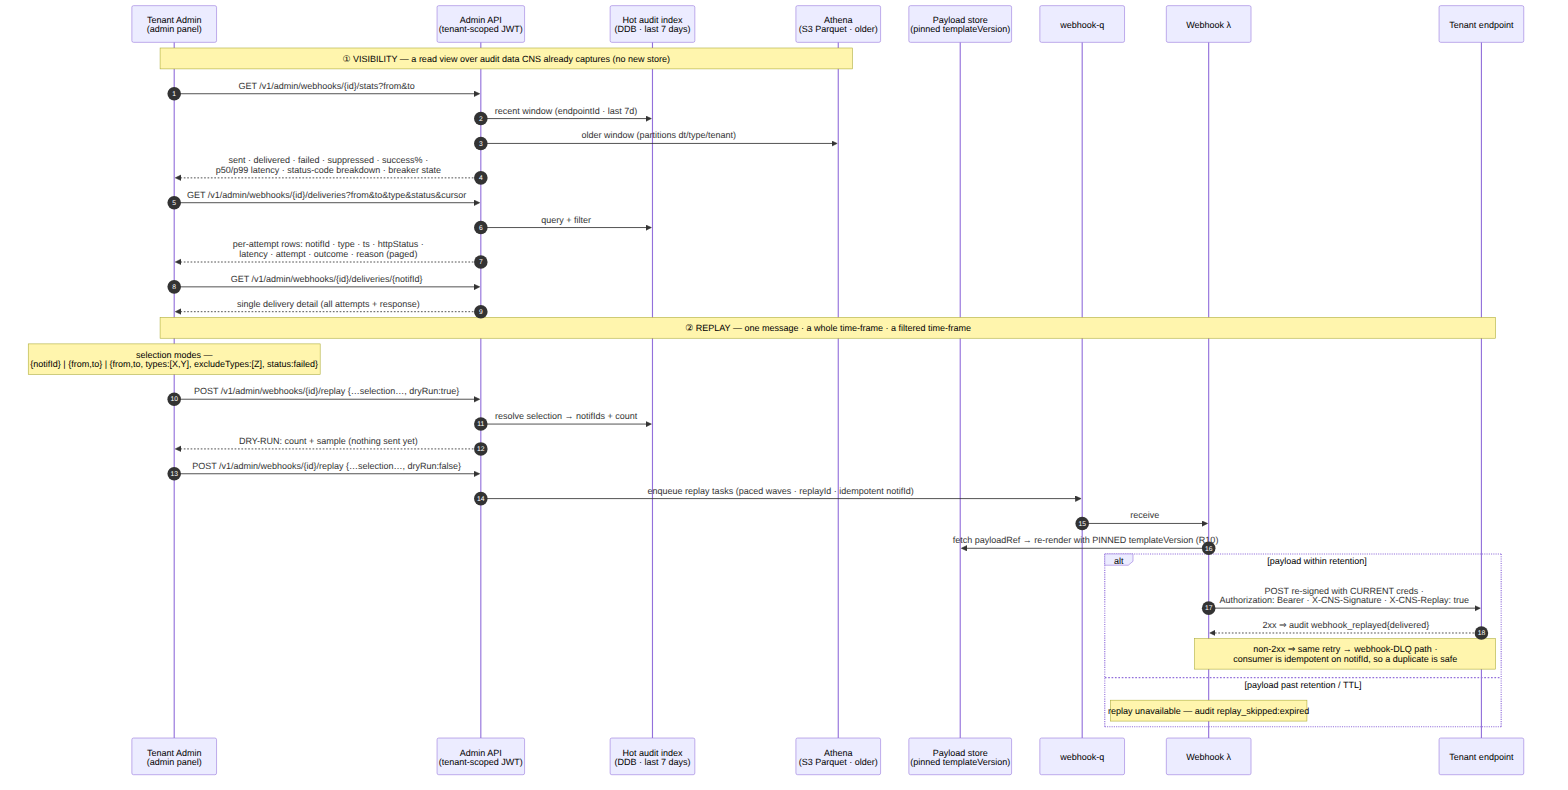
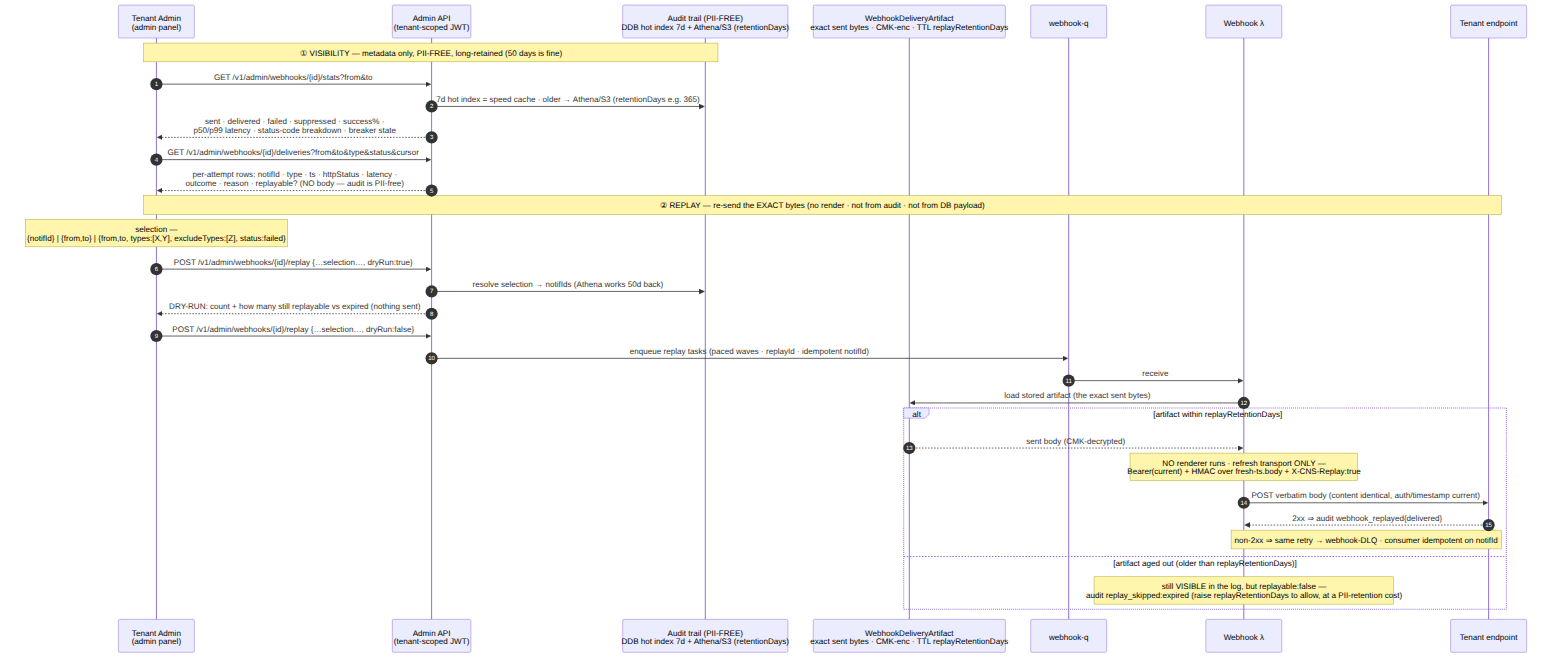
Fix replay: re-send stored artifact verbatim (not re-render, not from PII-free audit)
Corrects two design errors raised in review:
- The S3 audit trail is PII-free by contract (no payload/body), so it cannot be
  the replay source; and re-rendering from the DB payload is a reconstruction,
  not a replay (config/context may have drifted, and it re-reads PII).
- A true replay must re-send the EXACT bytes originally delivered.

Design now:
- New WebhookDeliveryArtifact store — the exact sent bytes, tenant-CMK-encrypted,
  IAM-isolated, honors erasure, auto-purged at replayRetentionDays. Separate from
  the PII-free audit lake; never queried by Athena. Thin webhooks store a PII-free
  stub.
- Replay loads the artifact and re-sends verbatim — the renderer NEVER runs and
  the payload store is never read. Only the transport envelope is refreshed
  (current bearer + HMAC over a fresh timestamp so the consumer's replay-window
  check passes); content is byte-identical. Idempotent on notifId.
- Visibility and replayability decouple: metadata (PII-free) follows retentionDays
  (long — a 50-day-old failure is fully visible); the artifact follows
  replayRetentionDays (shorter, default ~30d). Past that, the row is still visible
  but replayable:false and a replay is audited replay_skipped:expired. Raising the
  window is a governance knob that keeps PII-bearing bodies longer (bigger GDPR
  surface) — surfaced explicitly, not accidental.

Answers the "50 days ago" question directly: see it always, replay it only within
[…]

diff --git a/CNS-Design-Reader.jsx b/CNS-Design-Reader.jsx
@@ -390,22 +390,24 @@ const FLOWS = {
   },
   f12: {
     label: "12 · Webhook admin — visibility + replay",
-    actors: ["Admin", "Admin API", "Audit index", "webhook-q", "Webhook λ", "Endpoint"],
+    actors: ["Admin", "Admin API", "Audit (PII-free)", "Artifact store", "webhook-q", "Webhook λ", "Endpoint"],
     steps: [
-      { note: "① VISIBILITY — a read view over audit data CNS already captures (no new store)" },
+      { note: "① VISIBILITY — metadata only, PII-FREE, long-retained (50 days is fine)" },
       { f: 0, t: 1, label: "GET /webhooks/{id}/stats?from&to" },
-      { f: 1, t: 2, label: "hot index (7d) + Athena (older, partitioned dt/type/tenant)" },
+      { f: 1, t: 2, label: "7d hot index = speed cache · older → Athena/S3 (retentionDays)" },
       { f: 1, t: 0, label: "sent · delivered · failed · success% · p50/p99 · status-code breakdown", dashed: true },
       { f: 0, t: 1, label: "GET /webhooks/{id}/deliveries?from&to&type&status" },
-      { f: 1, t: 0, label: "per-attempt log: notifId · type · httpStatus · latency · outcome · reason", dashed: true },
-      { note: "② REPLAY — {notifId} | {from,to} | {from,to, types:[X,Y], excludeTypes:[Z], status:failed}" },
+      { f: 1, t: 0, label: "per-attempt rows: notifId · type · status · latency · outcome · replayable? (NO body)", dashed: true },
+      { note: "② REPLAY — re-send the EXACT bytes: no render · not from audit · not from DB payload" },
+      { note: "selection: {notifId} | {from,to} | {from,to, types:[X,Y], excludeTypes:[Z], status:failed}" },
       { f: 0, t: 1, label: "POST /replay {…selection…, dryRun:true}" },
-      { f: 1, t: 0, label: "DRY-RUN: count + sample (nothing sent yet)", dashed: true },
+      { f: 1, t: 0, label: "DRY-RUN: count + how many still replayable vs expired (nothing sent)", dashed: true },
       { f: 0, t: 1, label: "POST /replay {…selection…, dryRun:false} — confirm" },
-      { f: 1, t: 3, label: "enqueue replay tasks — paced · replayId · idempotent notifId" },
-      { f: 3, t: 4, label: "receive" },
-      { f: 4, t: 5, label: "re-render (PINNED templateVersion) + re-sign (current creds) + POST X-CNS-Replay", tone: "accent" },
-      { note: "idempotent on notifId ⇒ safe to double-replay · payload past retention ⇒ audited replay_skipped:expired" },
+      { f: 1, t: 4, label: "enqueue replay tasks — paced · replayId · idempotent notifId" },
+      { f: 4, t: 5, label: "receive" },
+      { f: 5, t: 3, label: "load stored artifact (exact sent bytes, CMK-decrypted)" },
+      { f: 5, t: 6, label: "re-send VERBATIM — refresh transport only (current bearer + fresh-ts HMAC + X-CNS-Replay)", tone: "accent" },
+      { note: "artifact aged out (> replayRetentionDays) ⇒ still VISIBLE but replayable:false, audit replay_skipped:expired" },
     ],
   },
 };
@@ -441,6 +443,7 @@ const entities = [
   ["WebhookEndpoint (new)", "tenant#endpointId · url · secretRef (HMAC) + bearerTokenRef — two independently rotatable creds, each current+previous overlap (rotationOverlapHours, *RotatedAt) · subscribedTypes[] · status(pending|active|disabled) · breakerState · mTLS — §3.6.1"],
   ["DeviceToken (new)", "tenant#user · device#id · platform(ios|android|web) · token · appVersion · locale · active — pruned on provider 'unregistered' — §3.6.2"],
   ["SmsConsent (new)", "tenant#user (or phone#hash) · status(opted_in|opted_out) · source · updatedAt — STOP/HELP driven suppression — §3.6.3"],
+  ["WebhookDeliveryArtifact (new)", "tenant#endpointId · artifact#notifId · the EXACT sent bytes, tenant-CMK-encrypted · templateVersion · thin · expiresAt=replayRetentionDays — verbatim replay source, NOT the PII-free audit trail — §3.6.5"],
   ["Recipient kinds", "user · role · externalEmail · slackChannel + externalPhone (SMS to a non-user number)"],
   ["Connection (v1.3)", "DELETED — AppSync owns connection state; there is nothing for CNS to store"],
 ];
@@ -796,29 +799,42 @@ export default function App() {
         </Section>
 
         <Section id="webhookops" title="Webhook visibility & replay" kicker="tenant admin panel — what was sent/failed + re-send by message / time-frame / filter">
-          <div className="text-sm">
-            The tenant answers two operational questions itself: <b>“what did CNS send me, and what failed?”</b> and <b>“re-send the ones I missed.”</b>
-            Both are served from data CNS <b>already captures</b> (per-attempt audit events + the outbox) — a scoped read + a re-enqueue, <b>not</b> new storage.
-          </div>
+          <Callout title="Two data planes — do not conflate them (the correction)">
+            <b>Visibility</b> reads the <b>PII-free audit trail</b> (metadata only — no body). <b>Replay</b> re-sends the <b>exact bytes originally delivered</b>,
+            read from a separate <span style={mono}>WebhookDeliveryArtifact</span> store — <b>NOT</b> the audit trail (it has no payload by design), and <b>NOT</b> by
+            re-rendering from the DB payload (that's a <i>reconstruction</i>, not a replay, and would re-read PII). <b>The renderer never runs during replay.</b>
+          </Callout>
           <div className="grid gap-2 sm:grid-cols-2">
             <div className="rounded-lg p-3" style={{ background: C.wash }}>
-              <div className="text-xs font-bold uppercase" style={{ color: C.navy }}>Visibility — the calculations</div>
-              <div className="mt-1 text-sm">Per-endpoint over any <span style={mono}>from</span>/<span style={mono}>to</span>: <b>sent · delivered · failed · suppressed</b>,
-                <b> success rate</b>, <b>p50/p99 latency</b>, HTTP <b>status-code breakdown</b>, volume by type, breaker state. Plus a filterable
-                <b> delivery log</b> (one row per attempt: notifId · type · status · latency · outcome · reason). Last 7 days from the hot index; older from Athena.</div>
+              <div className="text-xs font-bold uppercase" style={{ color: C.navy }}>Visibility — metadata, PII-free, long-retained</div>
+              <div className="mt-1 text-sm">Per-endpoint over any window: <b>sent · delivered · failed · suppressed</b>, <b>success rate</b>, <b>p50/p99 latency</b>,
+                HTTP <b>status-code breakdown</b>, volume by type, breaker state; plus a filterable <b>delivery log</b> (notifId · type · status · latency · outcome · reason · <b>replayable?</b>).
+                The 7-day hot index is only a <b>speed cache</b> — older windows come from Athena/S3 at the type's <span style={mono}>retentionDays</span> (e.g. 365 d), so
+                <b> "what failed 50 days ago" is fully visible</b> (everything except the body).</div>
             </div>
             <div className="rounded-lg p-3" style={{ background: C.accentSoft, borderLeft: `4px solid ${C.accent}` }}>
-              <div className="text-xs font-bold uppercase" style={{ color: "#8A3A12" }}>Replay — three selection modes</div>
+              <div className="text-xs font-bold uppercase" style={{ color: "#8A3A12" }}>Replay — verbatim, three selection modes</div>
               <div className="mt-1 text-sm"><b>①</b> a single message <span style={mono}>{"{notifId}"}</span> · <b>②</b> a whole time-frame
                 <span style={mono}> {"{from,to}"}</span> · <b>③</b> a filtered time-frame <span style={mono}>{"{from,to, types:[X,Y], excludeTypes:[Z], status:failed}"}</span>
-                — e.g. only types X, Y (not Z) that failed.</div>
+                — e.g. only types X, Y (not Z) that failed. The <span style={mono}>Webhook λ</span> <b>loads the stored artifact and re-sends the bytes verbatim</b>;
+                only the transport envelope is refreshed (current bearer + HMAC over a fresh timestamp, so the consumer's replay-window check passes). Idempotent on <span style={mono}>notifId</span>.</div>
+            </div>
+          </div>
+          <div className="rounded-lg p-3" style={{ border: `1px solid ${C.line}` }}>
+            <div className="text-xs font-bold uppercase" style={{ color: C.navy }}>PII &amp; retention — the artifact store, and the “50 days ago” answer</div>
+            <div className="mt-1 text-sm">
+              The artifact <i>is</i> the notification content, so it can hold PII → the <span style={mono}>WebhookDeliveryArtifact</span> store is <b>tenant-CMK-encrypted</b>,
+              IAM-isolated, honors erasure, and auto-purges at <span style={mono}>replayRetentionDays</span> (its own knob, default ~30 d) — <b>never in the PII-free audit lake</b>.
+              <b> Visibility and replayability decouple:</b> metadata follows <span style={mono}>retentionDays</span> (long), the artifact follows <span style={mono}>replayRetentionDays</span> (shorter).
+              A 50-day-old delivery is still <b>visible</b>; it is <b>replayable only if <span style={mono}>replayRetentionDays ≥ 50</span></b> — otherwise the row shows <span style={mono}>replayable:false</span> and a
+              replay is audited <span style={mono}>replay_skipped:expired</span>. Raising the window buys convenience at the cost of <b>keeping PII-bearing bodies longer</b> (bigger GDPR surface) — a
+              governance knob, not an accident. <b>Thin webhooks</b> carry no PII in the body and sidestep the tradeoff.
             </div>
           </div>
           <div className="text-sm">
-            <b>Kept simple by reuse:</b> <b>dry-run first</b> (returns count + sample, sends nothing) → confirm → replay tasks enqueue onto
-            <span style={mono}> webhook-q</span> in <b>paced waves</b> → the <span style={mono}>Webhook λ</span> <b>re-renders from the pinned templateVersion</b> and
-            <b> re-signs with current credentials</b>, through the same SSRF/retry/breaker/DLQ path. <b>Idempotent on <span style={mono}>notifId</span></b>, so double-replay is safe;
-            a payload past retention is un-replayable and audited <span style={mono}>replay_skipped:expired</span>. Every replay is audited (<span style={mono}>who · what · count</span>).
+            <b>Kept simple by reuse:</b> <b>dry-run first</b> (count + how many are still replayable vs expired, sends nothing) → confirm → replay tasks enqueue onto
+            <span style={mono}> webhook-q</span> in <b>paced waves</b> → load artifact → re-send verbatim through the same SSRF/retry/breaker/DLQ path.
+            Every replay is audited (<span style={mono}>replay_requested · webhook_replayed · replay_skipped:expired</span>).
           </div>
           <Code>{`GET  /v1/admin/webhooks/{id}/stats?from&to                  // rollups / calculations
 GET  /v1/admin/webhooks/{id}/deliveries?from&to&type&status // delivery log (filterable)
@@ -944,6 +960,7 @@ CRUD /v1/admin/tenants/{id}/sms-budget              // per-tenant SMS spend/rate
               ["InboxItem body", "Rendered text may contain PII; tenant CMK encrypted", "Same expiresAt; also on resolve"],
               ["Enrichment cache", "Masked placeholder form only — zero raw PII", "Per-type cache TTL"],
               ["Audit trail (S3)", "Recipients as HMAC token; no payload; no body text", "S3 lifecycle = retentionDays; Object Lock optional"],
+              ["WebhookDeliveryArtifact", "Exact sent bytes (may contain PII for fat webhooks); tenant CMK encrypted; thin webhooks are PII-free", "expiresAt = replayRetentionDays (separate, shorter knob) — then un-replayable"],
               ["Queues · logs · traces", "NEVER — CloudWatch data-protection policy enforces this", "N/A"],
               ["LLM prompt/response", "Allow-listed masked fields; output never stored; Bedrock no-retention", "Immediate — hash + token counts in audit only"],
             ]} />

diff --git a/Summary.html b/Summary.html
@@ -415,22 +415,24 @@ const FLOWS = {
   },
   f12: {
     label: "12 · Webhook admin — visibility + replay",
-    actors: ["Admin", "Admin API", "Audit index", "webhook-q", "Webhook λ", "Endpoint"],
+    actors: ["Admin", "Admin API", "Audit (PII-free)", "Artifact store", "webhook-q", "Webhook λ", "Endpoint"],
     steps: [
-      { note: "① VISIBILITY — a read view over audit data CNS already captures (no new store)" },
+      { note: "① VISIBILITY — metadata only, PII-FREE, long-retained (50 days is fine)" },
       { f: 0, t: 1, label: "GET /webhooks/{id}/stats?from&to" },
-      { f: 1, t: 2, label: "hot index (7d) + Athena (older, partitioned dt/type/tenant)" },
+      { f: 1, t: 2, label: "7d hot index = speed cache · older → Athena/S3 (retentionDays)" },
       { f: 1, t: 0, label: "sent · delivered · failed · success% · p50/p99 · status-code breakdown", dashed: true },
       { f: 0, t: 1, label: "GET /webhooks/{id}/deliveries?from&to&type&status" },
-      { f: 1, t: 0, label: "per-attempt log: notifId · type · httpStatus · latency · outcome · reason", dashed: true },
-      { note: "② REPLAY — {notifId} | {from,to} | {from,to, types:[X,Y], excludeTypes:[Z], status:failed}" },
+      { f: 1, t: 0, label: "per-attempt rows: notifId · type · status · latency · outcome · replayable? (NO body)", dashed: true },
+      { note: "② REPLAY — re-send the EXACT bytes: no render · not from audit · not from DB payload" },
+      { note: "selection: {notifId} | {from,to} | {from,to, types:[X,Y], excludeTypes:[Z], status:failed}" },
       { f: 0, t: 1, label: "POST /replay {…selection…, dryRun:true}" },
-      { f: 1, t: 0, label: "DRY-RUN: count + sample (nothing sent yet)", dashed: true },
+      { f: 1, t: 0, label: "DRY-RUN: count + how many still replayable vs expired (nothing sent)", dashed: true },
       { f: 0, t: 1, label: "POST /replay {…selection…, dryRun:false} — confirm" },
-      { f: 1, t: 3, label: "enqueue replay tasks — paced · replayId · idempotent notifId" },
-      { f: 3, t: 4, label: "receive" },
-      { f: 4, t: 5, label: "re-render (PINNED templateVersion) + re-sign (current creds) + POST X-CNS-Replay", tone: "accent" },
-      { note: "idempotent on notifId ⇒ safe to double-replay · payload past retention ⇒ audited replay_skipped:expired" },
+      { f: 1, t: 4, label: "enqueue replay tasks — paced · replayId · idempotent notifId" },
+      { f: 4, t: 5, label: "receive" },
+      { f: 5, t: 3, label: "load stored artifact (exact sent bytes, CMK-decrypted)" },
+      { f: 5, t: 6, label: "re-send VERBATIM — refresh transport only (current bearer + fresh-ts HMAC + X-CNS-Replay)", tone: "accent" },
+      { note: "artifact aged out (> replayRetentionDays) ⇒ still VISIBLE but replayable:false, audit replay_skipped:expired" },
     ],
   },
 };
@@ -466,6 +468,7 @@ const entities = [
   ["WebhookEndpoint (new)", "tenant#endpointId · url · secretRef (HMAC) + bearerTokenRef — two independently rotatable creds, each current+previous overlap (rotationOverlapHours, *RotatedAt) · subscribedTypes[] · status(pending|active|disabled) · breakerState · mTLS — §3.6.1"],
   ["DeviceToken (new)", "tenant#user · device#id · platform(ios|android|web) · token · appVersion · locale · active — pruned on provider 'unregistered' — §3.6.2"],
   ["SmsConsent (new)", "tenant#user (or phone#hash) · status(opted_in|opted_out) · source · updatedAt — STOP/HELP driven suppression — §3.6.3"],
+  ["WebhookDeliveryArtifact (new)", "tenant#endpointId · artifact#notifId · the EXACT sent bytes, tenant-CMK-encrypted · templateVersion · thin · expiresAt=replayRetentionDays — verbatim replay source, NOT the PII-free audit trail — §3.6.5"],
   ["Recipient kinds", "user · role · externalEmail · slackChannel + externalPhone (SMS to a non-user number)"],
   ["Connection (v1.3)", "DELETED — AppSync owns connection state; there is nothing for CNS to store"],
 ];
@@ -821,29 +824,42 @@ function App() {
         </Section>
 
         <Section id="webhookops" title="Webhook visibility & replay" kicker="tenant admin panel — what was sent/failed + re-send by message / time-frame / filter">
-          <div className="text-sm">
-            The tenant answers two operational questions itself: <b>“what did CNS send me, and what failed?”</b> and <b>“re-send the ones I missed.”</b>
-            Both are served from data CNS <b>already captures</b> (per-attempt audit events + the outbox) — a scoped read + a re-enqueue, <b>not</b> new storage.
-          </div>
+          <Callout title="Two data planes — do not conflate them (the correction)">
+            <b>Visibility</b> reads the <b>PII-free audit trail</b> (metadata only — no body). <b>Replay</b> re-sends the <b>exact bytes originally delivered</b>,
+            read from a separate <span style={mono}>WebhookDeliveryArtifact</span> store — <b>NOT</b> the audit trail (it has no payload by design), and <b>NOT</b> by
+            re-rendering from the DB payload (that's a <i>reconstruction</i>, not a replay, and would re-read PII). <b>The renderer never runs during replay.</b>
+          </Callout>
           <div className="grid gap-2 sm:grid-cols-2">
             <div className="rounded-lg p-3" style={{ background: C.wash }}>
-              <div className="text-xs font-bold uppercase" style={{ color: C.navy }}>Visibility — the calculations</div>
-              <div className="mt-1 text-sm">Per-endpoint over any <span style={mono}>from</span>/<span style={mono}>to</span>: <b>sent · delivered · failed · suppressed</b>,
-                <b> success rate</b>, <b>p50/p99 latency</b>, HTTP <b>status-code breakdown</b>, volume by type, breaker state. Plus a filterable
-                <b> delivery log</b> (one row per attempt: notifId · type · status · latency · outcome · reason). Last 7 days from the hot index; older from Athena.</div>
+              <div className="text-xs font-bold uppercase" style={{ color: C.navy }}>Visibility — metadata, PII-free, long-retained</div>
+              <div className="mt-1 text-sm">Per-endpoint over any window: <b>sent · delivered · failed · suppressed</b>, <b>success rate</b>, <b>p50/p99 latency</b>,
+                HTTP <b>status-code breakdown</b>, volume by type, breaker state; plus a filterable <b>delivery log</b> (notifId · type · status · latency · outcome · reason · <b>replayable?</b>).
+                The 7-day hot index is only a <b>speed cache</b> — older windows come from Athena/S3 at the type's <span style={mono}>retentionDays</span> (e.g. 365 d), so
+                <b> "what failed 50 days ago" is fully visible</b> (everything except the body).</div>
             </div>
             <div className="rounded-lg p-3" style={{ background: C.accentSoft, borderLeft: `4px solid ${C.accent}` }}>
-              <div className="text-xs font-bold uppercase" style={{ color: "#8A3A12" }}>Replay — three selection modes</div>
+              <div className="text-xs font-bold uppercase" style={{ color: "#8A3A12" }}>Replay — verbatim, three selection modes</div>
               <div className="mt-1 text-sm"><b>①</b> a single message <span style={mono}>{"{notifId}"}</span> · <b>②</b> a whole time-frame
                 <span style={mono}> {"{from,to}"}</span> · <b>③</b> a filtered time-frame <span style={mono}>{"{from,to, types:[X,Y], excludeTypes:[Z], status:failed}"}</span>
-                — e.g. only types X, Y (not Z) that failed.</div>
+                — e.g. only types X, Y (not Z) that failed. The <span style={mono}>Webhook λ</span> <b>loads the stored artifact and re-sends the bytes verbatim</b>;
+                only the transport envelope is refreshed (current bearer + HMAC over a fresh timestamp, so the consumer's replay-window check passes). Idempotent on <span style={mono}>notifId</span>.</div>
+            </div>
+          </div>
+          <div className="rounded-lg p-3" style={{ border: `1px solid ${C.line}` }}>
+            <div className="text-xs font-bold uppercase" style={{ color: C.navy }}>PII &amp; retention — the artifact store, and the “50 days ago” answer</div>
+            <div className="mt-1 text-sm">
+              The artifact <i>is</i> the notification content, so it can hold PII → the <span style={mono}>WebhookDeliveryArtifact</span> store is <b>tenant-CMK-encrypted</b>,
+              IAM-isolated, honors erasure, and auto-purges at <span style={mono}>replayRetentionDays</span> (its own knob, default ~30 d) — <b>never in the PII-free audit lake</b>.
+              <b> Visibility and replayability decouple:</b> metadata follows <span style={mono}>retentionDays</span> (long), the artifact follows <span style={mono}>replayRetentionDays</span> (shorter).
+              A 50-day-old delivery is still <b>visible</b>; it is <b>replayable only if <span style={mono}>replayRetentionDays ≥ 50</span></b> — otherwise the row shows <span style={mono}>replayable:false</span> and a
+              replay is audited <span style={mono}>replay_skipped:expired</span>. Raising the window buys convenience at the cost of <b>keeping PII-bearing bodies longer</b> (bigger GDPR surface) — a
+              governance knob, not an accident. <b>Thin webhooks</b> carry no PII in the body and sidestep the tradeoff.
             </div>
           </div>
           <div className="text-sm">
-            <b>Kept simple by reuse:</b> <b>dry-run first</b> (returns count + sample, sends nothing) → confirm → replay tasks enqueue onto
-            <span style={mono}> webhook-q</span> in <b>paced waves</b> → the <span style={mono}>Webhook λ</span> <b>re-renders from the pinned templateVersion</b> and
-            <b> re-signs with current credentials</b>, through the same SSRF/retry/breaker/DLQ path. <b>Idempotent on <span style={mono}>notifId</span></b>, so double-replay is safe;
-            a payload past retention is un-replayable and audited <span style={mono}>replay_skipped:expired</span>. Every replay is audited (<span style={mono}>who · what · count</span>).
+            <b>Kept simple by reuse:</b> <b>dry-run first</b> (count + how many are still replayable vs expired, sends nothing) → confirm → replay tasks enqueue onto
+            <span style={mono}> webhook-q</span> in <b>paced waves</b> → load artifact → re-send verbatim through the same SSRF/retry/breaker/DLQ path.
+            Every replay is audited (<span style={mono}>replay_requested · webhook_replayed · replay_skipped:expired</span>).
           </div>
           <Code>{`GET  /v1/admin/webhooks/{id}/stats?from&to                  // rollups / calculations
 GET  /v1/admin/webhooks/{id}/deliveries?from&to&type&status // delivery log (filterable)
@@ -969,6 +985,7 @@ CRUD /v1/admin/tenants/{id}/sms-budget              // per-tenant SMS spend/rate
               ["InboxItem body", "Rendered text may contain PII; tenant CMK encrypted", "Same expiresAt; also on resolve"],
               ["Enrichment cache", "Masked placeholder form only — zero raw PII", "Per-type cache TTL"],
               ["Audit trail (S3)", "Recipients as HMAC token; no payload; no body text", "S3 lifecycle = retentionDays; Object Lock optional"],
+              ["WebhookDeliveryArtifact", "Exact sent bytes (may contain PII for fat webhooks); tenant CMK encrypted; thin webhooks are PII-free", "expiresAt = replayRetentionDays (separate, shorter knob) — then un-replayable"],
               ["Queues · logs · traces", "NEVER — CloudWatch data-protection policy enforces this", "N/A"],
               ["LLM prompt/response", "Allow-listed masked fields; output never stored; Bedrock no-retention", "Immediate — hash + token counts in audit only"],
             ]} />

diff --git a/docs/CNS-System-Design-v1.4.md b/docs/CNS-System-Design-v1.4.md
@@ -291,13 +291,14 @@ The most expensive and most regulated channel — reserved for high-priority typ
 
 #### 3.6.5 Webhook delivery visibility & replay (the tenant admin panel)
 
-Once a tenant is receiving webhooks they need to answer two operational questions themselves: *"what did CNS send me, and what failed?"* and *"re-send me the ones I missed."* Both are served from data CNS **already captures** — the per-attempt audit events and the `DeliveryRecord` outbox — so this is a read/re-enqueue feature, not new storage. Full flow: diagram [`f12_webhook_admin`](../diagrams/f12_webhook_admin.png).
+Tenants need to answer two operational questions themselves: *"what did CNS send me, and what failed?"* and *"re-send me the ones I missed."* These are **two different data planes with two different retention and PII profiles**, and conflating them is a bug — the earlier draft did, so this section is explicit about it. Full flow: diagram [`f12_webhook_admin`](../diagrams/f12_webhook_admin.png).
 
-**A. Visibility — what the tenant sees.** All tenant-scoped (JWT pins them to their own `tenantId`), read from the **7-day hot audit index** (DynamoDB) for the live panel and **Athena over S3 Parquet** for older windows (partitioned `dt/type/tenant`, which is exactly the shape these filters need):
+> **The correction.** Visibility reads the **PII-free audit trail** (metadata only). Replay must re-send the **exact bytes originally delivered**, so it reads a separate **`WebhookDeliveryArtifact` store** — *not* the audit trail (which has no payload by design) and *not* by re-rendering from the payload store (re-rendering is a *reconstruction*, not a replay: templates, config, or context may have changed, and it would re-read PII from the payload store). **The renderer never runs during replay.**
 
-- **Per-endpoint rollups / calculations:** `sent`, `delivered`, `failed`, `suppressed`; **success rate**; **p50/p99 latency**; HTTP **status-code breakdown**; volume by `typeId`; current `breakerState` and `consecutiveFailures`; last-delivery timestamp — over any `from`/`to` window.
-- **Delivery log:** one row per attempt — `notifId`, `typeId`, timestamp, `httpStatus`, latency, `attempt`, outcome (`delivered | failed | suppressed | replayed`), and the failure `reason` — searchable and filterable by endpoint, type, status, and time range, cursor-paginated.
-- **Single-delivery drill-in:** every attempt for one `notifId` plus the response code.
+**A. Visibility — metadata only, PII-free, long-retained.** Tenant-scoped (JWT pins them to their own `tenantId`). Served from the audit plane, which by contract carries **no payload and no body** — only `notifId`, `typeId`, timestamps, `httpStatus`, latency, `attempt`, outcome, `reason`, and HMAC-tokenized identifiers. The 7-day DynamoDB **hot index is only a query-speed cache**; older windows are served transparently from **Athena over S3 Parquet** (partitioned `dt/type/tenant`), retained for the type's `retentionDays` (e.g. 365 d). So **"what failed 50 days ago" is fully visible** — status, latency, reason, everything except the body.
+
+- **Rollups / calculations:** `sent`, `delivered`, `failed`, `suppressed`; success rate; p50/p99 latency; HTTP status-code breakdown; volume by `typeId`; `breakerState`; last-delivery — over any window.
+- **Delivery log:** one row per attempt, filterable by endpoint/type/status/time; each row carries a `replayable` flag (see D).
 
 ```
 GET /v1/admin/webhooks/{id}/stats?from&to                       # rollups / calculations
@@ -305,7 +306,21 @@ GET /v1/admin/webhooks/{id}/deliveries?from&to&type&status&cursor  # delivery lo
 GET /v1/admin/webhooks/{id}/deliveries/{notifId}                # single-delivery detail
 ```
 
-**B. Replay — one message, a whole time-frame, or a filtered time-frame.** The same three selection modes the requirement asks for, all through one endpoint:
+**B. The `WebhookDeliveryArtifact` store — what a real replay re-sends.** At first delivery the `Webhook λ` persists the **exact rendered request body it sent** (the signed bytes), keyed by `notifId`, so replay is a verbatim re-send, not a reconstruction. Because that body *is* the notification content, it can contain PII — so this store is **nothing like the audit trail**:
+
+```jsonc
+// WebhookDeliveryArtifact — the sent bytes, encrypted, with its own TTL
+{ "PK": "tenant#org_912", "SK": "artifact#<notifId>",
+  "body": "<tenant-CMK-encrypted exact rendered bytes>",   // envelope-encrypted, per-tenant CMK
+  "contentType": "application/json", "templateVersion": 7,
+  "renderedAt": "2026-07-08T…", "thin": false,             // thin webhooks store a PII-free stub
+  "expiresAt": "<TTL = replayRetentionDays>" }             // separate knob from audit retention
+```
+
+- **PII posture:** tenant-tier **CMK-encrypted at rest**, tenant-prefixed keys with IAM isolation, honors GDPR erasure, and **auto-purged at `replayRetentionDays`** (DynamoDB TTL; S3 + SSE-KMS with a lifecycle rule is the escape hatch when volume or a long window makes DynamoDB storage the wrong tool). It is **not** in the PII-free audit lake and is never queried by Athena.
+- **Thin webhooks** (`thin:true`, §3.6.1-D) carry no PII in the body, so their artifact is PII-free and can be retained cheaply and long.
+
+**C. Replay — one message, a whole time-frame, or a filtered time-frame.** Same three selection modes, one endpoint:
 
 ```
 POST /v1/admin/webhooks/{id}/replay
@@ -316,16 +331,15 @@ POST /v1/admin/webhooks/{id}/replay
     "status": "failed", "dryRun": true }                        # e.g. only X,Y — not Z — that failed
 ```
 
-Mechanics, kept deliberately simple by reusing what already exists:
+1. **Resolve the selection** against the audit metadata into a set of `notifId`s (Athena for old windows — works for 50 days back).
+2. **Dry-run first** returns count + sample **and how many are still `replayable`** vs. expired — nothing is sent.
+3. On confirm, enqueue replay tasks onto `webhook-q` in **paced waves**, tagged `replayId` + `X-CNS-Replay: true`.
+4. The `Webhook λ` **loads the stored artifact and re-sends the bytes verbatim** — *no render, no payload-store read*. Only the **transport envelope is refreshed**: `Authorization: Bearer <current token>`, `X-CNS-Signature` recomputed over `{fresh-timestamp}.{stored-body}` with the current HMAC secret (a fresh timestamp is required so the consumer's own replay-window check passes), same `X-CNS-Notif-Id`. Content is identical; only auth/timestamp are current.
+5. **Idempotent by construction:** the consumer keys on `notifId`, so replaying something already processed is a safe no-op; replaying something missed delivers it.
 
-1. **Resolve the selection** against the audit index/Athena into a concrete set of `notifId`s.
-2. **Dry-run first** (`dryRun:true`, the default for a range) returns the **count + a sample** and sends nothing — so an operator never fires a 200k-message replay blind.
-3. On confirm, CNS **enqueues replay tasks onto `webhook-q`** in **paced waves** (the same pacing as a large fan-out), each tagged `replayId` + `X-CNS-Replay: true`.
-4. The `Webhook λ` **re-renders from the pinned `templateVersion`** (R10) and the payload fetched by `payloadRef`, **re-signs with the *current* credentials** (bearer + HMAC), and POSTs — through the *same* SSRF guard, retry, breaker, and DLQ path as a first delivery.
-5. **Idempotent by construction:** the consumer keys on `notifId`, so replaying something it already processed is a safe no-op on their side; replaying something it missed delivers it.
-6. If the payload is **past its retention/TTL**, replay is unavailable for that item and is audited `replay_skipped:expired` — the panel shows it as un-replayable rather than failing silently.
+**D. The 50-days question — visibility and replay decouple.** Metadata visibility follows `retentionDays` (long — you can *see* a 90-day-old failure). Replayability follows `replayRetentionDays` (a separate, deliberately-chosen knob, default e.g. 30 d). If the artifact has aged out, the delivery is still **visible** but its row is marked **`replayable:false`** and a replay attempt is audited `replay_skipped:expired` — never a silent failure. **To replay 50-day-old messages, set `replayRetentionDays ≥ 50`** — and accept the tradeoff that this **keeps PII-bearing bodies encrypted-at-rest for longer**, enlarging the GDPR/erasure surface and storage cost. That is a governance decision, surfaced as one config knob per type/endpoint, not an accident. (Thin webhooks sidestep the tradeoff entirely.)
 
-Replay is a deliberate admin action, so it **bypasses the resolved-check** by default (you asked for these to be re-sent); a `respectResolution:true` flag honors suppression if the tenant prefers. Every replay is audited (`replay_requested{selection, count, principal}`, `webhook_replayed`), so "who re-sent what, and when" is one query. The same visibility+replay surface generalizes to other channels, but ships webhook-first because that's where tenants integrate programmatically.
+Replay is a deliberate admin action, so it **bypasses the resolved-check** by default; a `respectResolution:true` flag honors suppression instead. Every replay is audited (`replay_requested{selection, count, principal}`, `webhook_replayed`, `replay_skipped:expired`). The same split (PII-free metadata plane + encrypted artifact plane) generalizes to other channels, but ships webhook-first because that's where tenants integrate programmatically.
 
 ---
 
@@ -408,6 +422,7 @@ Unchanged from v1.3 §10.6 (T1 design-time author + T2 signature-gated runtime r
 | **`WebhookEndpoint`** (new) | `PK tenant#endpointId` · `url`, **`secretRef` (HMAC) + `bearerTokenRef` — two independently rotatable credentials, each with a `current`/`previous` overlap** (`rotationOverlapHours`, `secretRotatedAt`, `bearerRotatedAt`), `subscribedTypes[]`, `status(pending\|active\|disabled)`, `breakerState`, `consecutiveFailures`, `customHeaders`, `mTLS`, `verifiedAt` — §3.6.1 |
 | **`DeviceToken`** (new) | `PK tenant#user`, `SK device#id` · `platform(ios\|android\|web)`, `token`, `appVersion`, `locale`, `active`, `lastSeenAt` — pruned on provider "unregistered" — §3.6.2 |
 | **`SmsConsent`** (new) | `PK tenant#user` (or `phone#hash`) · `status(opted_in\|opted_out)`, `source`, `updatedAt` — STOP/HELP driven suppression — §3.6.3 |
+| **`WebhookDeliveryArtifact`** (new) | `PK tenant#endpointId`, `SK artifact#notifId` · the **exact sent bytes**, **tenant-CMK-encrypted**, `templateVersion`, `thin`, `expiresAt` TTL = **`replayRetentionDays`** — the verbatim source for replay; separate from the PII-free audit trail — §3.6.5 |
 | `NotificationType.channels` enum | gains **`webhook`, `push`, `sms`** with per-channel settings (`push.contentPolicy`, `push.collapseKey`, `push.ttl`, `sms.contentPolicy`, `sms.maxSegments`, `sms.senderIdPolicy`, webhook via tenant endpoint registry) |
 | Recipient kinds | `user`, `role`, `externalEmail`, `slackChannel` **+ `externalPhone`** (SMS to a non-user number) |
 
@@ -497,7 +512,7 @@ Retry policy per boundary: full-jitter exponential backoff everywhere; DLQ after
 ## 8. Multi-tenancy, security, DR — kept, summarized
 
 - **Standard tier:** pooled, every key tenant-prefixed, isolation enforced below app code (DynamoDB `LeadingKeys`-conditioned roles; AppSync resolvers build keys from JWT claims only). **Enterprise tier:** same IaC stack stamped as a dedicated cell.
-- **PII:** payload-by-reference; only Intake and channel λs ever hold plaintext; Bedrock no-retention + allow-listed masked prompts; logger schema without payload fields + CloudWatch data-protection backstop.
+- **PII:** payload-by-reference; only Intake and channel λs ever hold plaintext; Bedrock no-retention + allow-listed masked prompts; logger schema without payload fields + CloudWatch data-protection backstop. The **audit trail is PII-free** (metadata + tokenized ids only); the two stores that *do* hold PII — the payload store and the `WebhookDeliveryArtifact` store (§3.6.5) — are tenant-CMK-encrypted, IAM-isolated, TTL-purged (`retentionDays` / `replayRetentionDays`), and honor erasure. Replay reads the artifact store, never the audit trail.
 - **DR:** Multi-AZ single region (all components ≥ 2 AZ by construction); IaC redeployable cross-region; config/templates continuously exported; EventBridge archive enables re-ingest of an outage window. Warm-standby / active-active remain priced options with the same triggers as v1.3 §12.
 
 ---